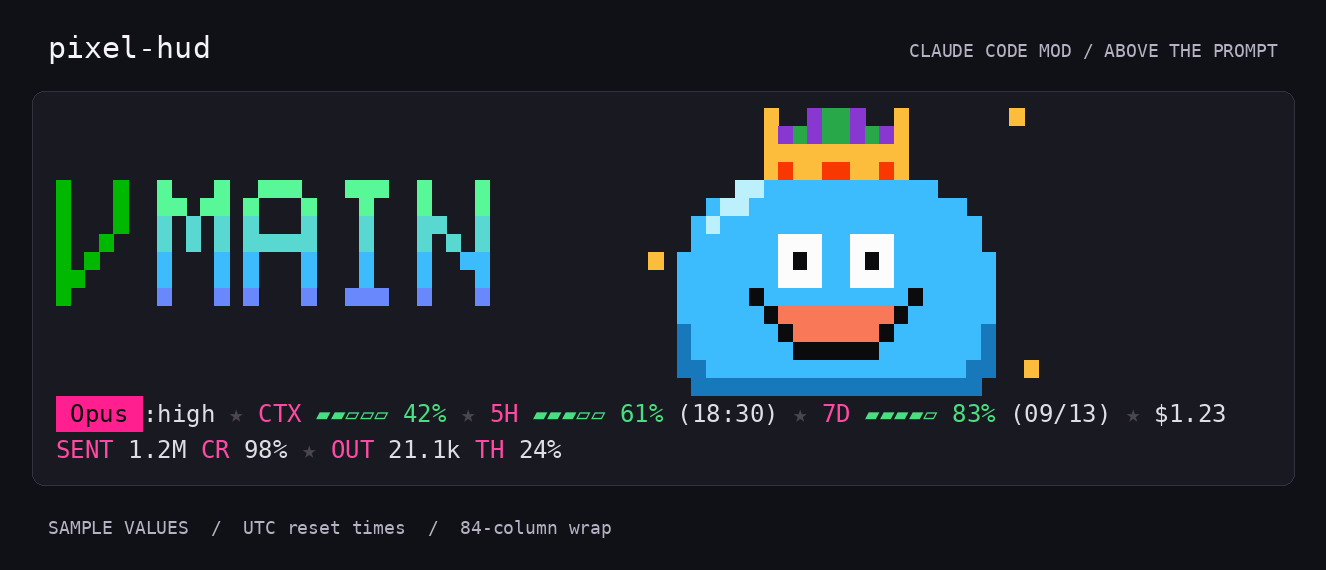
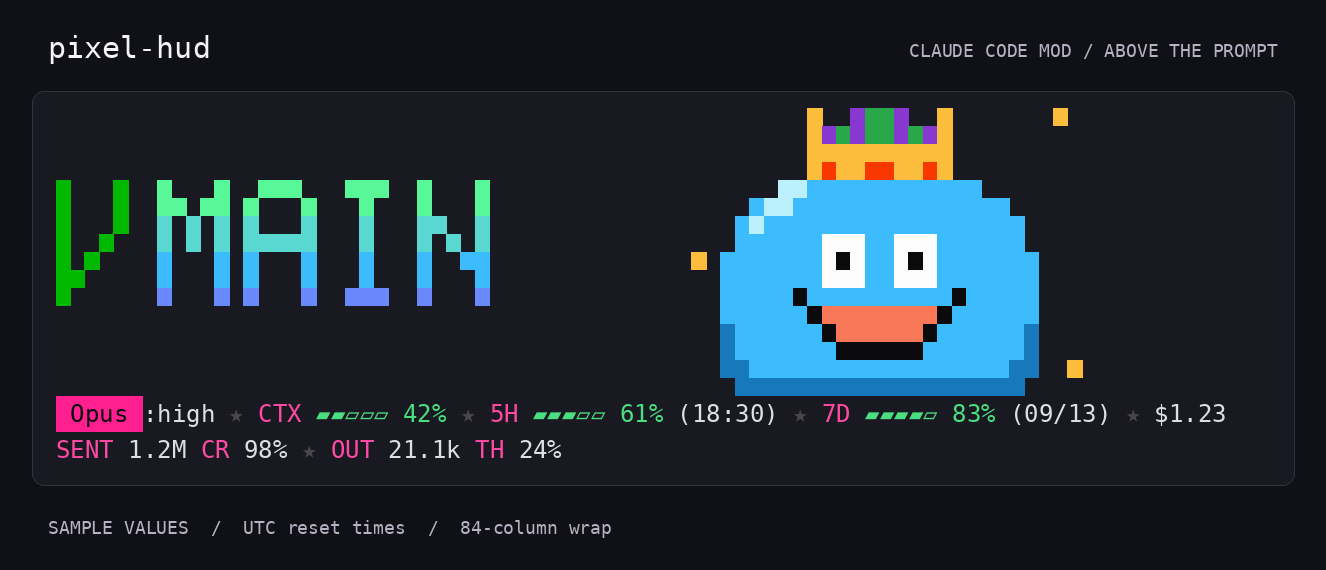
docs(pixel-hud): refresh spaced slime showcases

Changed region(s): [[0.4638, 0.1789, 0.8348, 0.7158]]

diff --git a/docs/specs/dq-slime-motion.md b/docs/specs/dq-slime-motion.md
@@ -6,10 +6,10 @@ ADR 0015 enlarged the stage to 16 pixels (8 text rows). The dimensions and
 motion below describe the current 11-column kin on that stage; the original
 7-pixel drafts have been superseded.
 
-The faces were later redrawn closer to Dragon Quest: round white eyes around a
-centred pupil, looking straight ahead, and a wide crescent grin with a salmon
-mouth. The King is 22 pixels wide under a crown of gold, purple and green. The
-merge crowns a King Slime, a Gold King Slime or a Metal King Slime, picked at
+The faces were later redrawn closer to Dragon Quest: 3×3 white eye blocks around a
+centred pupil, with white above, below and on both sides, looking straight ahead.
+The wide crescent grin has a salmon mouth and corners outside the eyes. The
+King is 22 pixels wide under a crown of gold, purple and green. The merge crowns a King Slime, a Gold King Slime or a Metal King Slime, picked at
 random each time; each has its own body colours, and the Gold King's crown band is
 silver. The replies below name whichever King it is.
 
@@ -23,8 +23,8 @@ are salmon, dark purple and red for the onion kin, with dark grins for both
 puddle-shaped kin. The merged blob stays 17 wide and all Kings stay 22 wide.
 The Gold and Metal Kings wear a plated sprite with banded metal shading; the
 blue King Slime keeps its own. A clean `main` heading uses 32 columns, so the
-55-column family fits from 87 columns. The README family showcase uses that
-minimum width; at 84 columns only four kin fit under the branch-first fit rule.
+63-column family (five 11-column kin and four 2-column gaps) fits from 95 columns.
+The README family showcase uses that minimum width; at 84 columns only four kin fit under the branch-first fit rule.
 
 ## Problem Statement
 
@@ -72,8 +72,8 @@ The HUD's numbers stay first. Motion marks moments; it never narrates.
    stays the same.
 3. As a developer, I want each kin's lower edge drawn in a darker shade of its
    body, so that the slimes look round rather than flat.
-4. As a developer, I want each kin to use an 11-column slot on the 8-text-row
-   stage, giving up slots before shortening the branch name, so that the
+4. As a developer, I want each kin to use an 11-column sprite with 2 empty
+   columns between neighbours on the 8-text-row stage, giving up slots before shortening the branch name, so that the
    branch name keeps its room.
 5. As a developer, I want the slimes to breathe at rest by default with a
    gentle squish every few seconds, so that the HUD feels alive without
@@ -179,10 +179,11 @@ jewel), P (purple crown fabric) and G (green crown fabric):
   kin's entry
 
 Each kin has 11-pixel-wide stand, blink, squash, wide and stretch sprites,
-with its feet on the floor of the 16-pixel stage. Stand heights are 10 pixels
-for the onion kin, 9 for the bubble slime and 8 for the liquid metal slime;
-stretch heights are 12, 12 and 10 respectively. Airborne stand poses lift by
-the unused stage height (6, 7 and 8 pixels), keeping each tip at the top.
+with its feet on the floor of the 16-pixel stage. Stand heights are 11 pixels
+for the onion kin, 10 for the bubble slime and 9 for the liquid metal slime;
+stretch heights are 13, 13 and 11 respectively. Neighbouring kin have a 2-column
+gap, with no gap at the outer ends. Airborne stand poses lift by
+the unused stage height (5, 6 and 7 pixels), keeping each tip at the top.
 The authoritative pixel rows are the `ONION`, `PUDDLE` and `LIQUID` sprite
 sets in the slime module.
 
@@ -271,8 +272,8 @@ it):
 
 **King Slime show** (the trigger rules are unchanged: a main-loop answer
 after a task of 20 seconds or more, or `/slime-king`; and it needs two
-slimes' worth of room, 22 columns; the 24-column landing squash is clipped
-to those slots at the minimum under the existing stage-clipping policy):
+slimes' worth of room, 24 columns including their gap; both the 22-column King
+and its 24-column landing squash fit at that minimum):
 
 | Phase | Ticks (about) | What happens |
 |---|---|---|
@@ -386,7 +387,7 @@ to those slots at the minimum under the existing stage-clipping policy):
 - The branch glyphs, the meter, the HUD's layout and the rules for when
   slimes give up their room.
 - Additional kin beyond the five documented here, or further changes to the
-  11-column slots and 16-pixel stage height.
+  11-column sprites, 2-column gaps and 16-pixel stage height.
 - Sound, and any on-screen text message for moments other than the
   `/slime-king` replies.
 - Moments for other events, such as turn start, subagents or permission

diff --git a/docs/showcase/README.md b/docs/showcase/README.md
@@ -42,13 +42,14 @@ same `payload.json` and `transcript.jsonl`. It needs the `claude` CLI (2.1.294
 or newer) besides Pillow and the font:
 
 ```sh
-/tmp/hudline-showcase-venv/bin/python docs/showcase/render_mod.py --columns 87
+/tmp/hudline-showcase-venv/bin/python docs/showcase/render_mod.py --columns 95
 /tmp/hudline-showcase-venv/bin/python docs/showcase/render_mod.py --king
 /tmp/hudline-showcase-venv/bin/python docs/showcase/render_mod.py --gif
 /tmp/hudline-showcase-venv/bin/python docs/showcase/render_mod.py --sheet
 ```
 
-The first draws all five kin at 87 columns, the minimum beside clean `main`.
+The first draws all five kin at 95 columns, the minimum beside clean `main`
+(32 heading + 63 family columns).
 Other images keep the default 84 columns.
 The second draws `pixel-hud-king.png`: a task of a minute ends, and the image
 catches the King Slime halfway through its reign, using the exported phase

diff --git a/README.md b/README.md
@@ -71,8 +71,9 @@ pixel letters on top. It needs no Node.js and no `statusLine` setting.
 
 Beside the branch sits a slime family: a slime, a she-slime, a metal slime, a
 bubble slime and a liquid metal slime, each modelled on its Dragon Quest namesake.
-All five are 11 pixels wide, with round white eyes and a wide grin. A clean
-`main` branch needs 87 columns to show all five; at 84 columns four fit. At
+All five are 11 pixels wide, with 2-pixel gaps, centred pupils in 3×3 white
+eyes and a wide grin. A clean
+`main` branch needs 95 columns to show all five; at 84 columns four fit. At
 session start they drop in one by one, then settle into their resting motion. When a task of 20 seconds or more finishes, they leap toward
 each other in two hops and collide in mid-air. They splat together, then a crowned
 **King Slime**, plated **Gold King Slime** or plated **Metal King Slime**, picked

diff --git a/CONTEXT.md b/CONTEXT.md
@@ -277,7 +277,8 @@ The row of pixel-art slimes the pixel-hud mod draws beside the branch name, one
 and its own rhythm on it. Each Kin has its own palette and sprite set: the
 slime, she-slime and metal slime share an onion shape, the bubble slime a puddle,
 and the liquid metal slime a flowing silver mound. These five Kin are each 11
-pixels wide in the 16-pixel-tall stage; the merged blob is 17 wide and Kings 22.
+pixels wide, separated by 2 empty columns, in the 16-pixel-tall stage; the
+merged blob is 17 wide and Kings 22.
 
 ## Rest
 

diff --git a/docs/adr/0015-stages-are-sixteen-pixels-tall.md b/docs/adr/0015-stages-are-sixteen-pixels-tall.md
@@ -8,6 +8,10 @@ Accepted. Changes the stage sizes stated in
 [ADR-0013](0013-one-moment-owns-the-stage.md) and in
 `docs/specs/quest-stage.md`.
 
+The later [slime art and motion spec](../specs/dq-slime-motion.md) supersedes
+the slime widths below: kin are 11 columns wide with 2-column gaps, so four
+kin occupy 50 columns. The stage remains 16 pixels tall.
+
 ## Context
 
 The slime stage was 6 pixels tall (3 text rows) and the quest stage 8 pixels
